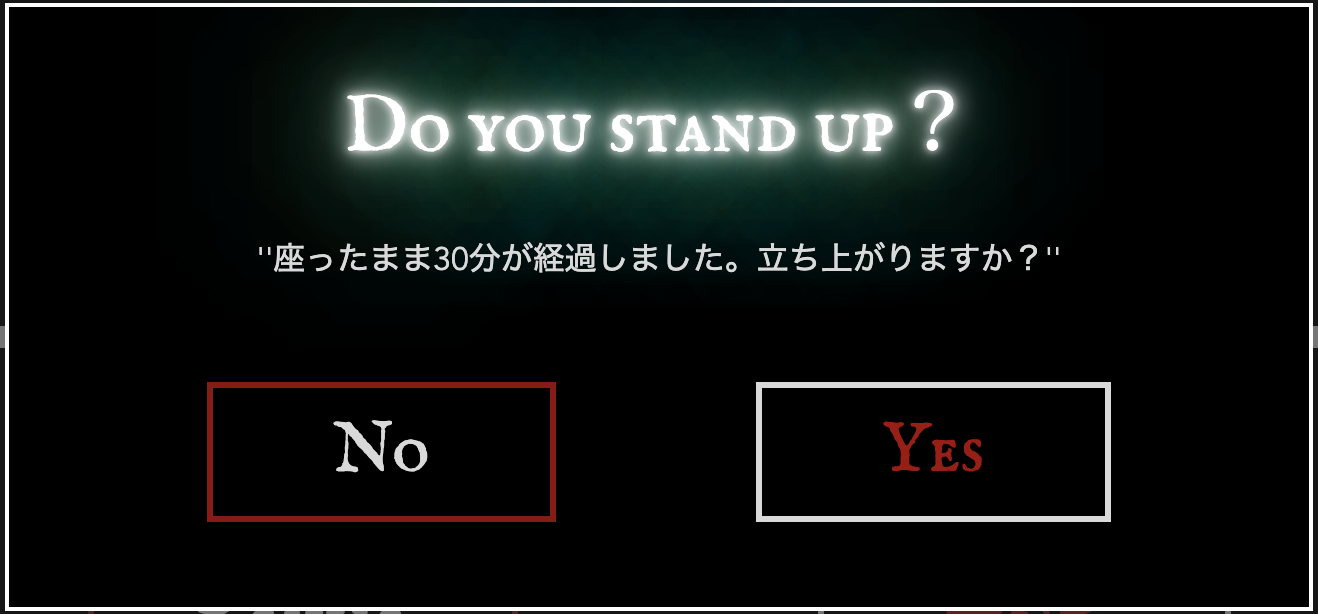
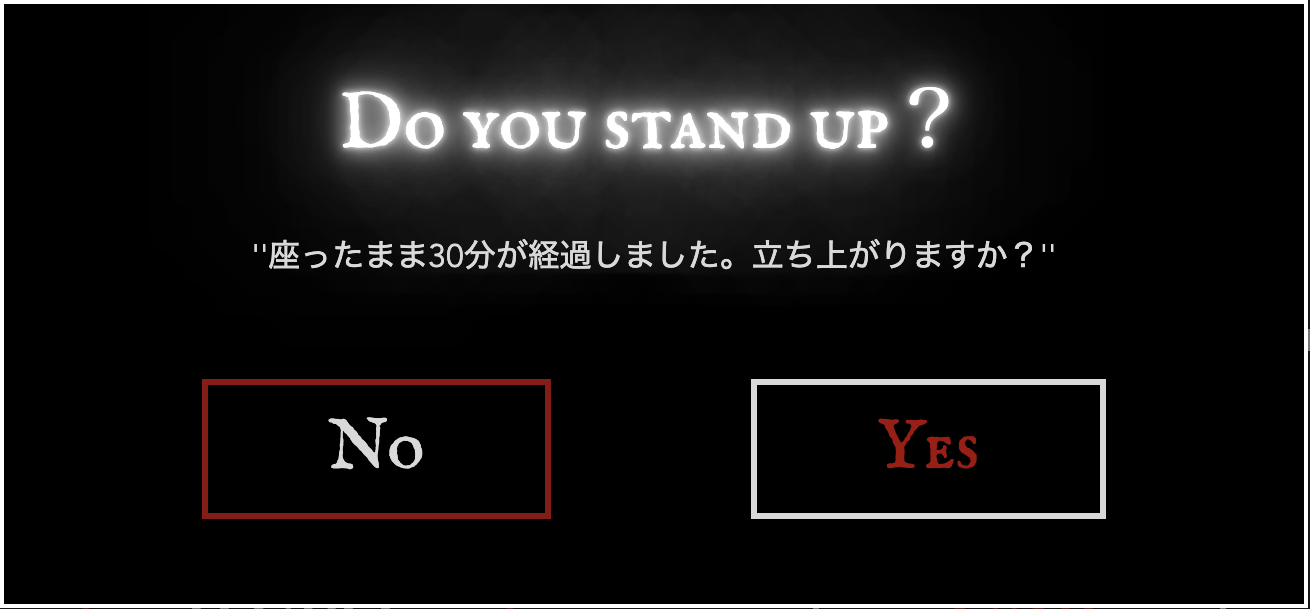
improve: モーダルが画面に収まるように #81

diff --git a/timer-vuejs/src/components/NotificationModal.vue b/timer-vuejs/src/components/NotificationModal.vue
@@ -4,14 +4,12 @@
     <div class="modal_contents_wrap">
       <span @click="close" class="modal_close_btn"><font-awesome-icon :icon="['fas', 'xmark']" style="color: #D9D9D9;" /></span>
       <h1 class="neontext">Notification</h1>
-      <h3>30分ごとに立ち上がりのお知らせを致します。</h3>
-      <div class="explanation">
-        <span>‘’ 30分に一度3分、立って動く ‘’</span>
-        <p>一回に座ったまま過ごす時間が30分を超えないようにすること。<br>これで座り過ぎのリスクはかなり減らせます。</p>
+      <h3 @click="openShowDetail" class="title">30分ごとに立ち上がりのお知らせを致します。<font-awesome-icon :icon="['fas', 'chevron-down']" style="color: #D9D9D9;" class="open-icon" /></h3>
+      <div v-show="showDetail" class="explanation">
+        <span class="red">‘’ 30分に一度3分、立って動く ‘’</span>
+        <p>一回に座ったまま過ごす時間が30分を超えないようにすること。<br>これで座り過ぎのリスクはかなり減らせます。<br><span class="postscript">※ デスクワークにおいて、夕方の疲労感が圧倒的に改善されたというデータもあります。</span></p>
       </div>
-      <div class="question">
-        <p>お知らせ方法を変更されますか？</p>
-      </div>
+      <h3 class="question">お知らせ方法を変更されますか？</h3>
 
       <div class="selection">
         <div class="sound-group">
@@ -68,6 +66,7 @@
     data () {
       return {
         show: false,
+        showDetail: false,
         radio: 'false',
         flashMessage: false,
       }
@@ -81,6 +80,9 @@
       },
       close () {
         this.show = false
+      },
+      openShowDetail () {
+        this.showDetail = !this.showDetail
       },
       async updateNotification () {
         this.$emit('showLoading')
@@ -152,43 +154,51 @@
     left: 50%;
     background-color: #000000;
     width: 750px;
-    height: 620px;
     transform: translate(-50%,-50%);
-    padding: 20px 65px 120px 65px;
-    margin-top: 105px;
+    padding: 20px 50px 40px 50px;
+    margin-top: 5px;
     border: 2px solid #FFFFFF;
   }
   .modal_close_btn {
     margin-left: 760px;
     cursor: pointer;
   }
-
   h3 {
     font-weight: normal;
-    border-bottom: 0.1px solid #525151;
-    width: 700px;
     margin: 0 auto;
   }
-  span {
+  h3.title {
+    cursor: pointer;
+  }
+  span.red {
     color: #CB0101;
     padding-top: 23px;
-    margin-left: 80px;
-    font-size: 16px;
+    margin-left: 50px;
+  }
+  .open-icon {
+    font-size: 12px;
   }
   .explanation {
+    border-top: 0.1px solid #525151;
     display: flex
   }
   .explanation p {
-    margin-left: 25px;
+    margin-left: 30px;
     padding-bottom: 20px;
     font-size: 13px;
+    text-align: left;
   }
-  .question p {
-    width: 480px;
+  span.postscript {
+    color: #BFBFBF;
+    font-size: 11px;
+    text-align: left;
+  }
+  h3.question {
+    border: 0.1px solid #525151;
+    background-color: rgba(40, 40, 40, 0.99);
+    width: 400px;
     margin-top: 20px;
     margin-bottom: 15px;
-    margin-left: 130px;
-    background-color: rgba(40, 40, 40, 0.99);
   }
 
   input[type="radio"] {
@@ -263,11 +273,11 @@
       0 0 7px #fff,
       0 0 10px #fff,
       0 0 21px #fff,
-      0 0 42px #0fa,
-      0 0 82px #0fa,
-      0 0 92px #0fa,
-      0 0 102px #0fa,
-      0 0 151px #0fa;
+      0 0 42px #D9D9D9,
+      0 0 82px #D9D9D9,
+      0 0 92px #D9D9D9,
+      0 0 102px #D9D9D9,
+      0 0 151px #D9D9D9;
   }
   h1.neontext {
     color: #fff;
@@ -281,22 +291,22 @@
       0 0 4px #fff,
       0 0 11px #fff,
       0 0 19px #fff,
-      0 0 40px #0fa,
-      0 0 80px #0fa,
-      0 0 90px #0fa,
-      0 0 100px #0fa,
-      0 0 150px #0fa;
+      0 0 40px #D9D9D9,
+      0 0 80px #D9D9D9,
+      0 0 90px #D9D9D9,
+      0 0 100px #D9D9D9,
+      0 0 150px #D9D9D9;
     }
     0% {
       text-shadow:
       0 0 4px #fff,
       0 0 10px #fff,
       0 0 18px #fff,
-      0 0 38px #0fa,
-      0 0 73px #0fa,
-      0 0 80px #0fa,
-      0 0 94px #0fa,
-      0 0 140px #0fa;
+      0 0 38px #D9D9D9,
+      0 0 73px #D9D9D9,
+      0 0 80px #D9D9D9,
+      0 0 94px #D9D9D9,
+      0 0 140px #D9D9D9;
     }
   }
 

diff --git a/timer-vuejs/src/components/HowtouseOKbuttonModal.vue b/timer-vuejs/src/components/HowtouseOKbuttonModal.vue
@@ -5,7 +5,7 @@
       <h1 class="neontext">How to Use</h1>
       <p class="subtitle">''アプリの主な使い方4ステップ''</p>
       <p class="body"><span class="number">1.</span><span class="red">30分ごとに</span>立ち上がりのお知らせを致します。</p>
-      <p class="attention"><font-awesome-icon :icon="['fas', 'triangle-exclamation']" />タイマーの通知が届かない場合<br>・ご使用のブラウザの通知をオフにしている可能性があります。端末の設定画面から使用されているブラウザアプリの通知をオンにしてください。<br>・端末がスリープ状態になっている場合もタイマーの通知が届きません。</p>
+      <p class="attention"><font-awesome-icon :icon="['fas', 'triangle-exclamation']" />端末がスリープ状態になっている場合は、タイマーの通知が届きませんのでご注意ください。</p>
       <p class="body"><span class="number">2.</span> 30分経過して通知が来ましたら、<span class="red">アプリ画面にて''立ち上がるか''を教えてください</span>。</p>
       <span class="attention">※ 1時間座り続けたことで縮んだ寿命の時間を正確にお伝えする為に、正直にお答えください。</span>
       <div class="group">
@@ -96,10 +96,10 @@
     left: 50%;
     background-color: #000000;
     width: 750px;
-    height: 620px;
+    height: 550px;
     transform: translate(-50%,-50%);
-    padding: 20px 65px 120px 65px;
-    margin-top: 80px;
+    padding: 20px 50px 100px 50px;
+    margin-top: 5px;
     border: 2px solid #FFFFFF;
   }
   .modal_close_btn {
@@ -111,7 +111,7 @@
     font-size: 25px;
     width: 300px;
     margin-left:240px;
-    margin-top: 50px;
+    margin-top: 30px;
     font-family: 'IM Fell English SC', serif;
     max-width: 280px;
     padding: 10px 25px;
@@ -132,11 +132,11 @@
       0 0 7px #fff,
       0 0 10px #fff,
       0 0 21px #fff,
-      0 0 42px #0fa,
-      0 0 82px #0fa,
-      0 0 92px #0fa,
-      0 0 102px #0fa,
-      0 0 151px #0fa;
+      0 0 42px #D9D9D9,
+      0 0 82px #D9D9D9,
+      0 0 92px #D9D9D9,
+      0 0 102px #D9D9D9,
+      0 0 151px #D9D9D9;
   }
   h1.neontext {
     color: #fff;
@@ -150,22 +150,22 @@
       0 0 4px #fff,
       0 0 11px #fff,
       0 0 19px #fff,
-      0 0 40px #0fa,
-      0 0 80px #0fa,
-      0 0 90px #0fa,
-      0 0 100px #0fa,
-      0 0 150px #0fa;
+      0 0 40px #D9D9D9,
+      0 0 80px #D9D9D9,
+      0 0 90px #D9D9D9,
+      0 0 100px #D9D9D9,
+      0 0 150px #D9D9D9;
     }
     0% {
       text-shadow:
       0 0 4px #fff,
       0 0 10px #fff,
       0 0 18px #fff,
-      0 0 38px #0fa,
-      0 0 73px #0fa,
-      0 0 80px #0fa,
-      0 0 94px #0fa,
-      0 0 140px #0fa;
+      0 0 38px #D9D9D9,
+      0 0 73px #D9D9D9,
+      0 0 80px #D9D9D9,
+      0 0 94px #D9D9D9,
+      0 0 140px #D9D9D9;
     }
   }
 

diff --git a/timer-vuejs/src/components/HowtouseModal.vue b/timer-vuejs/src/components/HowtouseModal.vue
@@ -101,10 +101,9 @@
     left: 50%;
     background-color: #000000;
     width: 750px;
-    height: 600px;
     transform: translate(-50%,-50%);
-    padding: 20px 65px 110px 65px;
-    margin-top: 80px;
+    padding: 20px 50px 40px 50px;
+    margin-top: 5px;
     border: 2px solid #FFFFFF;
   }
   .modal_close_btn {
@@ -118,11 +117,11 @@
       0 0 7px #fff,
       0 0 10px #fff,
       0 0 21px #fff,
-      0 0 42px #0fa,
-      0 0 82px #0fa,
-      0 0 92px #0fa,
-      0 0 102px #0fa,
-      0 0 151px #0fa;
+      0 0 42px #D9D9D9,
+      0 0 82px #D9D9D9,
+      0 0 92px #D9D9D9,
+      0 0 102px #D9D9D9,
+      0 0 151px #D9D9D9;
   }
   h1.neontext {
     color: #fff;
@@ -136,26 +135,27 @@
       0 0 4px #fff,
       0 0 11px #fff,
       0 0 19px #fff,
-      0 0 40px #0fa,
-      0 0 80px #0fa,
-      0 0 90px #0fa,
-      0 0 100px #0fa,
-      0 0 150px #0fa;
+      0 0 40px #D9D9D9,
+      0 0 80px #D9D9D9,
+      0 0 90px #D9D9D9,
+      0 0 100px #D9D9D9,
+      0 0 150px #D9D9D9;
     }
     0% {
       text-shadow:
       0 0 4px #fff,
       0 0 10px #fff,
       0 0 18px #fff,
-      0 0 38px #0fa,
-      0 0 73px #0fa,
-      0 0 80px #0fa,
-      0 0 94px #0fa,
-      0 0 140px #0fa;
+      0 0 38px #D9D9D9,
+      0 0 73px #D9D9D9,
+      0 0 80px #D9D9D9,
+      0 0 94px #D9D9D9,
+      0 0 140px #D9D9D9;
     }
   }
   .open-icon {
     padding-left: 10px;
+    font-size: 12px;
   }
   span.border {
     cursor: pointer;
